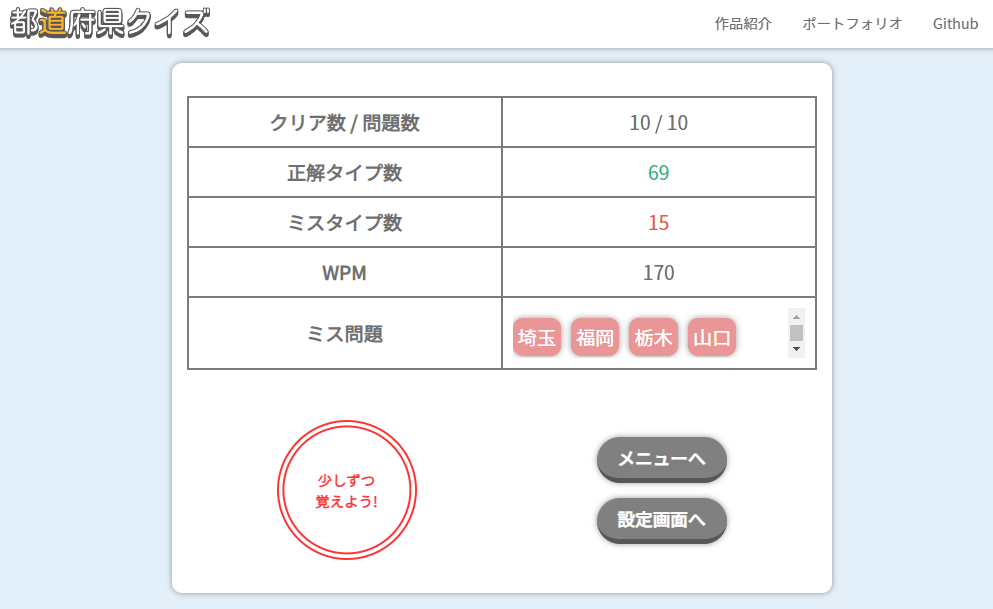
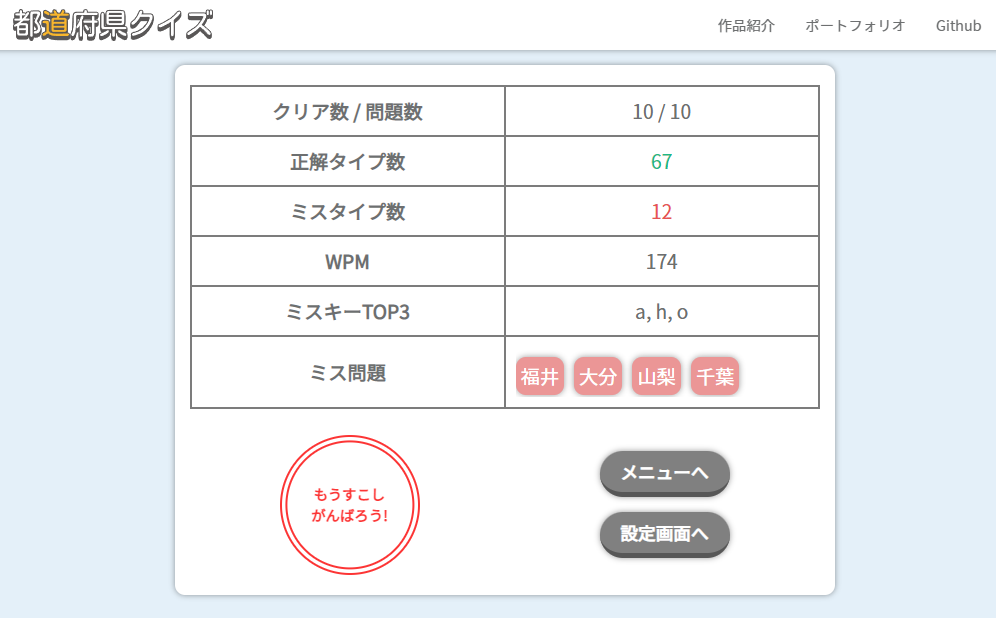
都道府県クイズ紹介ページ更新。

diff --git a/works-japan-map-quiz.html b/works-japan-map-quiz.html
@@ -519,14 +519,16 @@
           <p>間違ったタイピングをした数が表示されます。</p>
           <p class="bold">④WPM</p>
           <p>1分間当たりの正しくタイピングできた数が表示されます。</p>
-          <p class="bold">⑤ミス問題</p>
+          <p class="bold">⑤ミスキーTOP3</p>
+          <p>ミスした回数が多い順に3つ表示されます。</p>
+          <p class="bold">⑥ミス問題</p>
           <p>タイプミスした問題が表示されます。クリックするとモーダルウィンドウが表示され、解答を確認できます。</p>
           <img class="popup" src="img/works/japanMapQuiz/typing_result_confirm.gif" alt="地図タイピングミス問題確認画像">
-          <p class="bold">⑥評価</p>
+          <p class="bold">⑦評価</p>
           <p>クリア数、ミスタイプ数に応じて評価のテキストが表示されます。</p>
-          <p class="bold">⑦メニューへボタン</p>
+          <p class="bold">⑧メニューへボタン</p>
           <p>メニュー画面へ戻ります。</p>
-          <p class="bold">⑧設定画面へボタン</p>
+          <p class="bold">⑨設定画面へボタン</p>
           <p>設定画面へ戻ります。</p>
 
           <h4 id="not-found-error" class="heading-sub-section">Not Found画面</h4>
